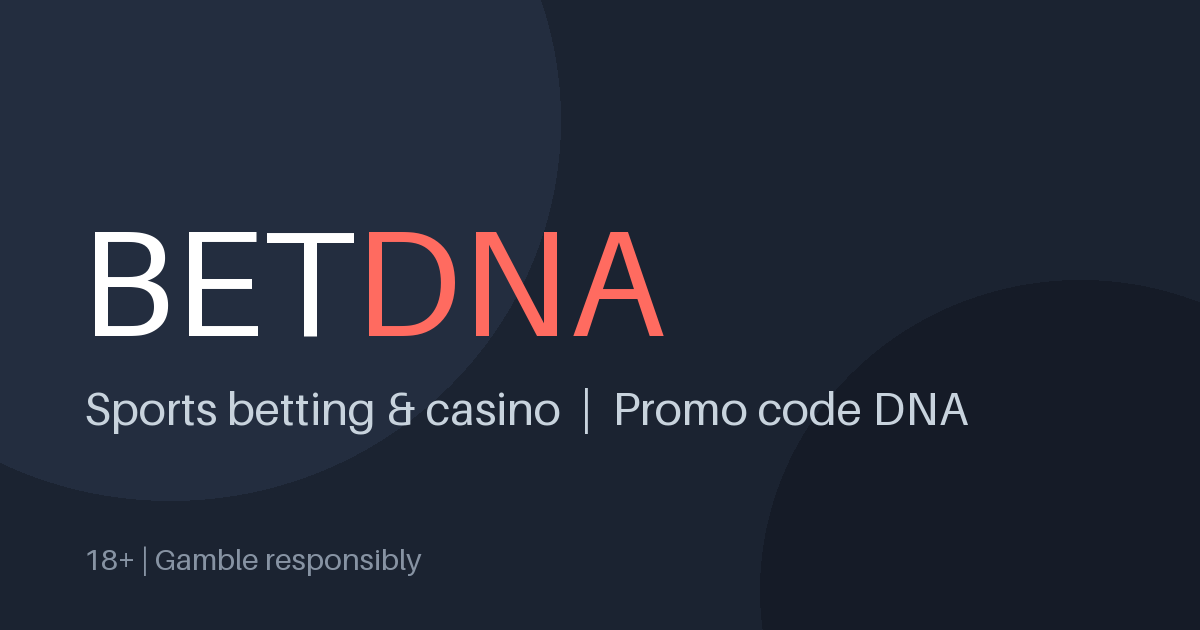
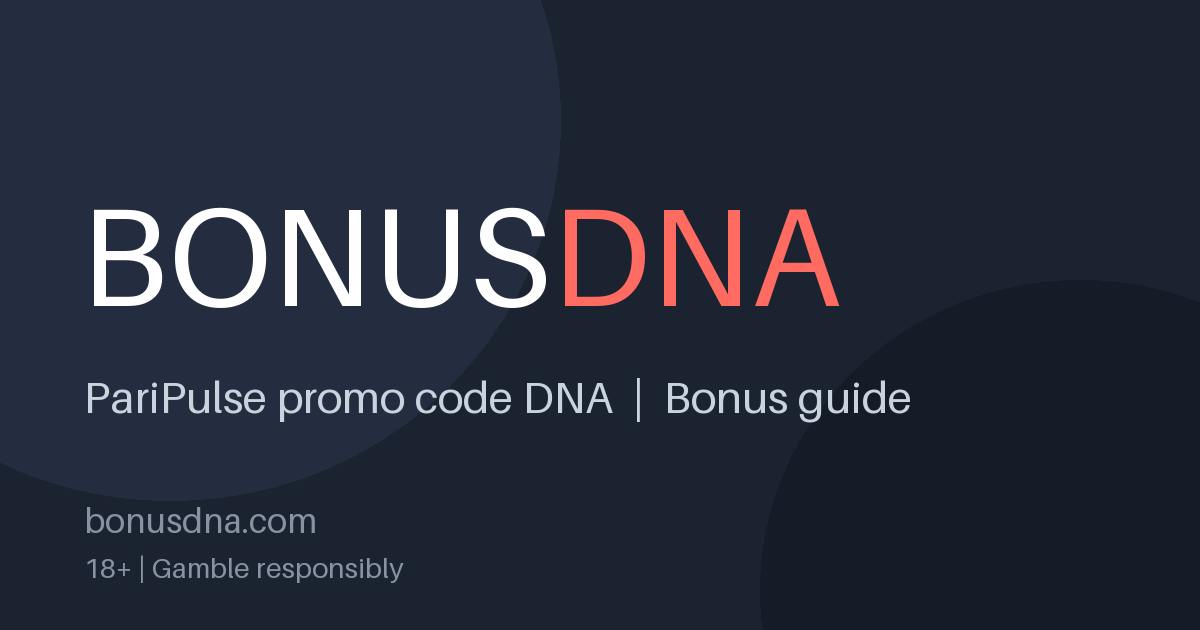
Add domain name and SEO

diff --git a/src/App.tsx b/src/App.tsx
@@ -70,7 +70,7 @@ export default function App() {
     <div id="top" className="min-h-screen bg-bg text-white">
       <header className="sticky top-0 z-30 border-b border-white/10 bg-bg/90 backdrop-blur">
         <div className="mx-auto flex max-w-3xl items-center justify-between gap-3 px-4 py-3">
-          <a href="#top" className="text-lg font-black">BET<span className="text-brand-text">DNA</span></a>
+          <a href="#top" className="text-lg font-black">BONUS<span className="text-brand-text">DNA</span></a>
           <nav className="hidden items-center gap-5 text-sm text-white/70 md:flex">
             <a href="#code" className="hover:text-white">Promo code</a>
             <a href="#how-to-claim" className="hover:text-white">How to claim</a>

diff --git a/site.config.ts b/site.config.ts
@@ -1,7 +1,7 @@
 // Everything you need to change for this site lives here.
-export const SITE_NAME = "BetDNA";
-// Your real domain, no trailing slash. You can also set SITE_URL as an environment variable on Vercel.
-export const SITE_URL = "https://your-domain.com";
+export const SITE_NAME = "BonusDNA";
+// The real domain, no trailing slash. SITE_URL can also be set as an environment variable on Vercel.
+export const SITE_URL = "https://bonusdna.com";
 export const BOOKMAKER = "PariPulse";
 export const PROMO_CODE = "DNA";
 export const REGISTER_URL =

diff --git a/README.md b/README.md
@@ -1,4 +1,4 @@
-# BetDNA
+# BonusDNA
 
 Single-page affiliate site. No blog, no admin, no backend: just the page.
 
@@ -18,8 +18,8 @@ The build writes `sitemap.xml` and `robots.txt` with that domain. Then add the d
 Already done by the build: title, description, canonical, Open Graph and Twitter tags, `sitemap.xml`, `robots.txt`, and the page text written into the HTML so Google can read it without running JavaScript.
 
 You still have to do (needs your domain and accounts):
-1. Set the real domain in `site.config.ts` (or the `SITE_URL` variable on Vercel) and redeploy.
-2. Google Search Console: add the property, verify it (DNS, or paste the HTML-tag code into `GOOGLE_SITE_VERIFICATION`), submit `https://YOUR-DOMAIN/sitemap.xml`, then use "Request indexing" on the home page.
+1. The domain `bonusdna.com` is set in `site.config.ts`. In Vercel add `bonusdna.com` and `www.bonusdna.com` under Domains; `www` redirects to the main address (see `vercel.json`).
+2. Google Search Console: add the property, verify it (DNS, or paste the HTML-tag code into `GOOGLE_SITE_VERIFICATION`), submit `https://bonusdna.com/sitemap.xml`, then use "Request indexing" on the home page.
 3. Check the result with the URL Inspection tool in Search Console. Expect days to weeks before it ranks.
 
 ## Analytics
